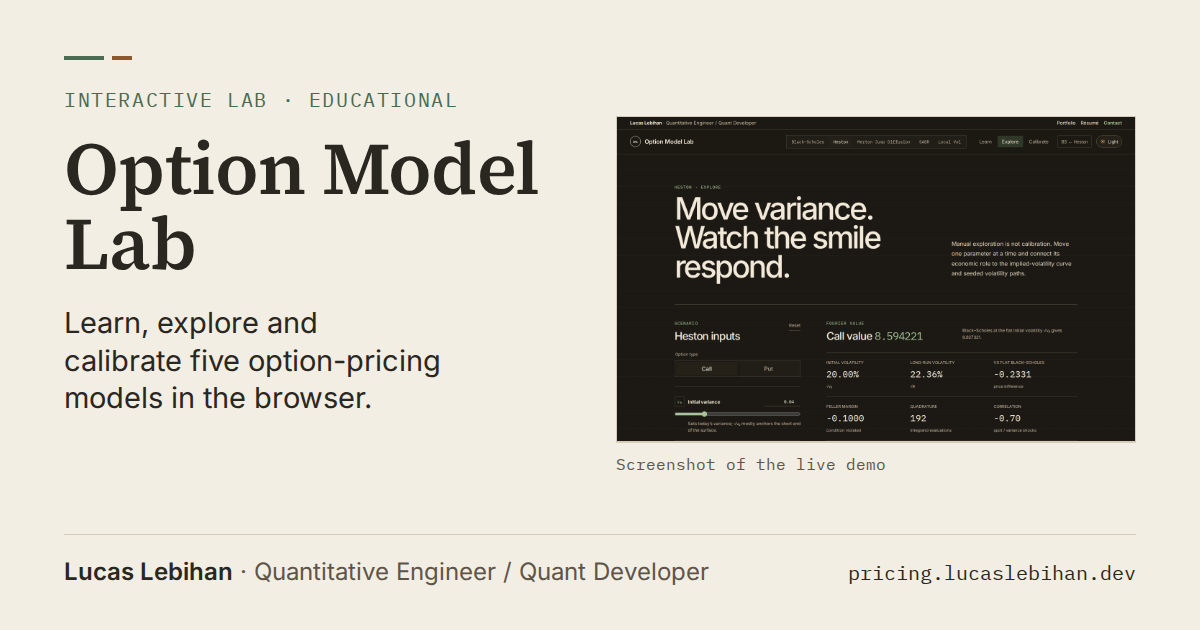
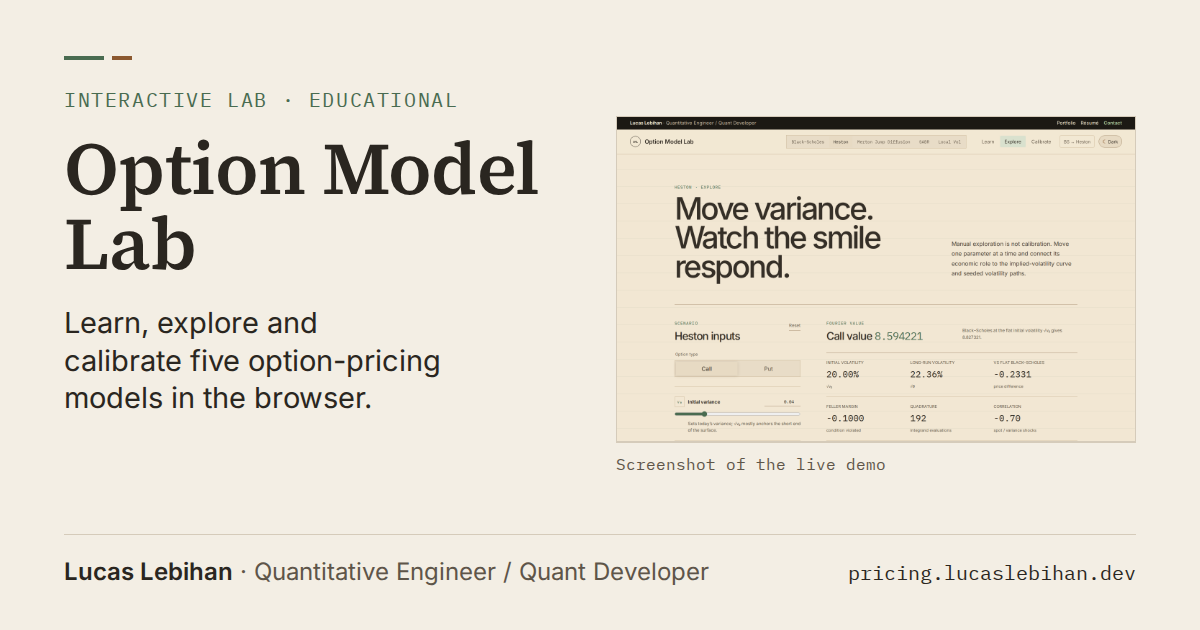
Preview the lab in its light theme, as on the portfolio
The social preview now captures the Heston Explore view in the light theme,
matching the portfolio's paper card. A version suffix on the image URL makes
LinkedIn and other sites fetch the new image instead of their cached copy.
Also restores Prettier formatting of index.html.

Claude-Session: https://claude.ai/code/session_012vfscv8XZuCpYDAQCXvBwg

Changed region(s): [[0.4933, 0.181, 0.9558, 0.7238]]

diff --git a/frontend/index.html b/frontend/index.html
@@ -14,17 +14,20 @@
       content="Learn, explore, and calibrate diffusion, stochastic-volatility, and jump models."
     />
     <meta property="og:url" content="%SITE_URL%" />
-    <meta property="og:image" content="%SITE_URL%og.png" />
+    <meta property="og:image" content="%SITE_URL%og.png?v=light" />
     <meta property="og:image:width" content="1200" />
     <meta property="og:image:height" content="630" />
-    <meta property="og:image:alt" content="Option Model Lab: title, what it does, and a screenshot of the Heston Explore view." />
+    <meta
+      property="og:image:alt"
+      content="Option Model Lab: title, what it does, and a screenshot of the Heston Explore view."
+    />
     <meta name="twitter:card" content="summary_large_image" />
     <meta name="twitter:title" content="Option Model Lab — Volatility & Jump Models" />
     <meta
       name="twitter:description"
       content="Learn, explore, and calibrate diffusion, stochastic-volatility, and jump models."
     />
-    <meta name="twitter:image" content="%SITE_URL%og.png" />
+    <meta name="twitter:image" content="%SITE_URL%og.png?v=light" />
     <link rel="icon" type="image/svg+xml" href="/favicon.svg" />
     <meta name="author" content="Lucas Lebihan" />
     <meta name="theme-color" content="#1c1914" />

diff --git a/docs/IDENTITY.md b/docs/IDENTITY.md
@@ -14,10 +14,11 @@ footer link back to the portfolio. Numerical chart colours and model behaviour
 remain independent of decorative social artwork.
 
 `frontend/public/og.png` is a 1200 × 630 social preview (the lab's Heston Explore
-view on the portfolio's paper card, as for the other demos), and
+view in its light theme, on the portfolio's paper card, as for the other demos), and
 `docs/assets/project-header.png` is a compact 1280 × 360 README cover.
 Their editable sources and rebuild script live in the author's private webfolio
 repository under `brand/` and `scripts/build-brand.mjs`. Copies are committed
 here so this project builds independently. Update HTML image dimensions when
-replacing social artwork. Font licenses are distributed with the Fontsource
+replacing social artwork, and change the `?v=` suffix of its URL in `index.html` so LinkedIn and
+other sites fetch the new image instead of their cached copy. Font licenses are distributed with the Fontsource
 packages.
